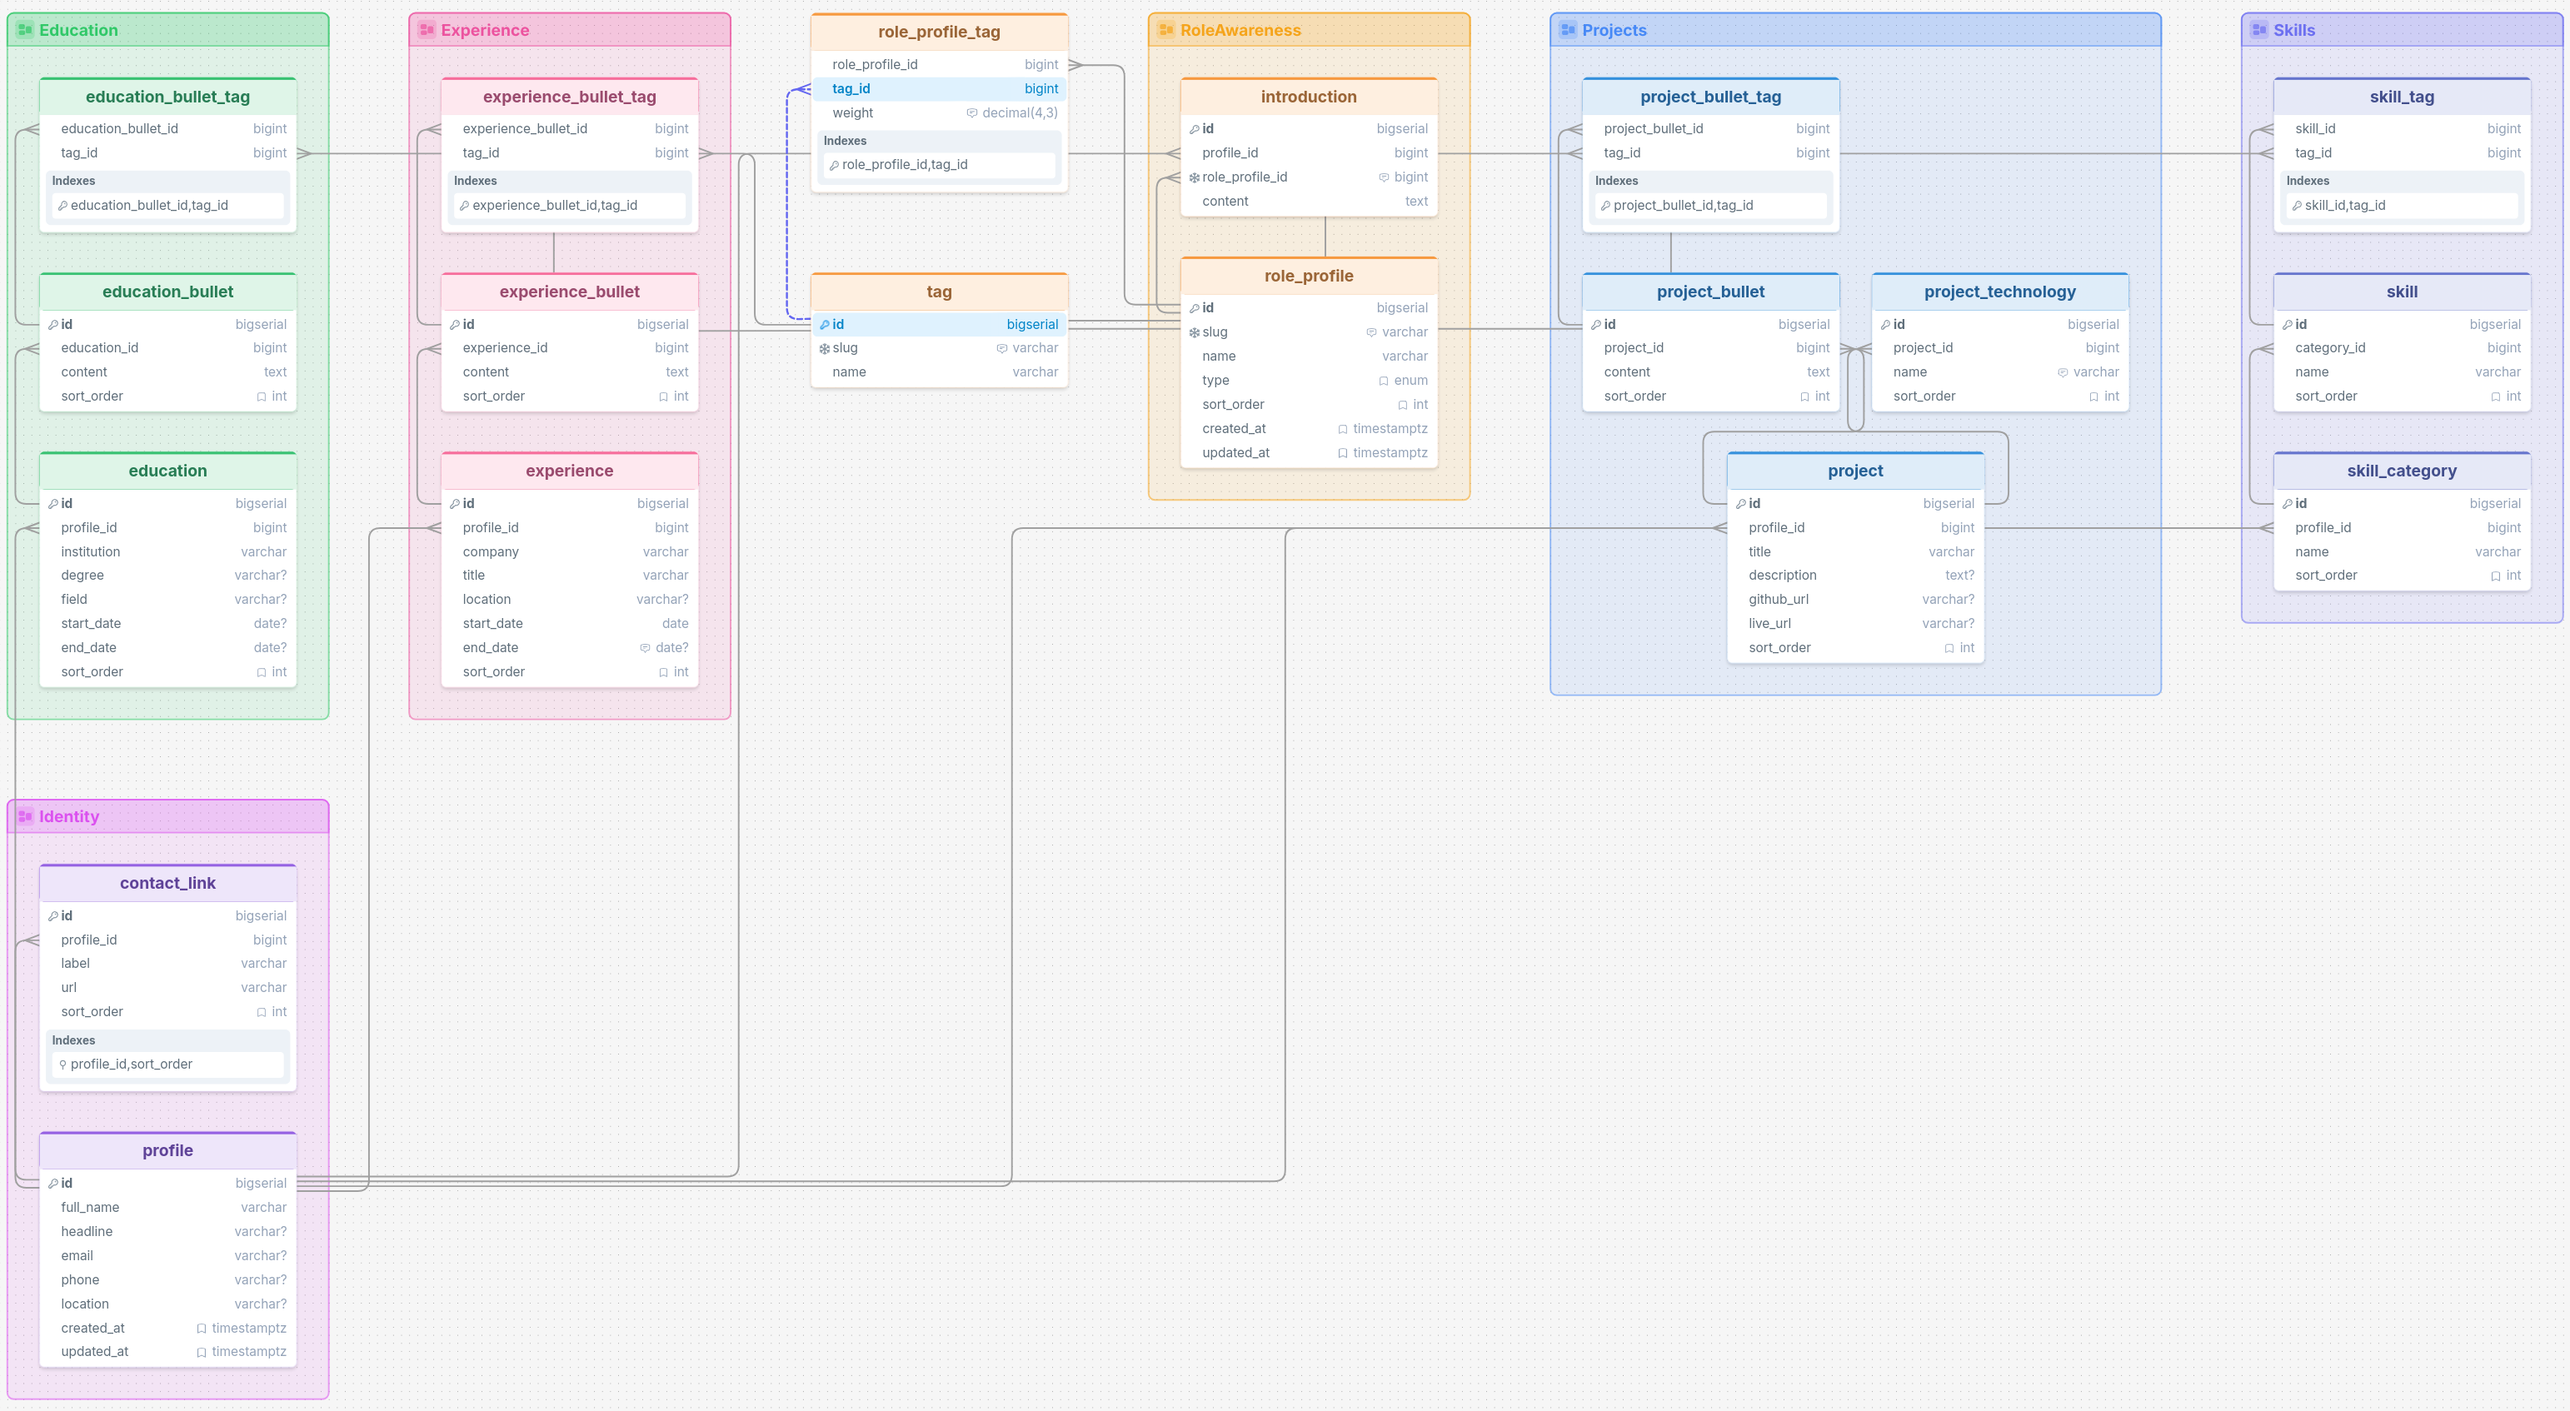
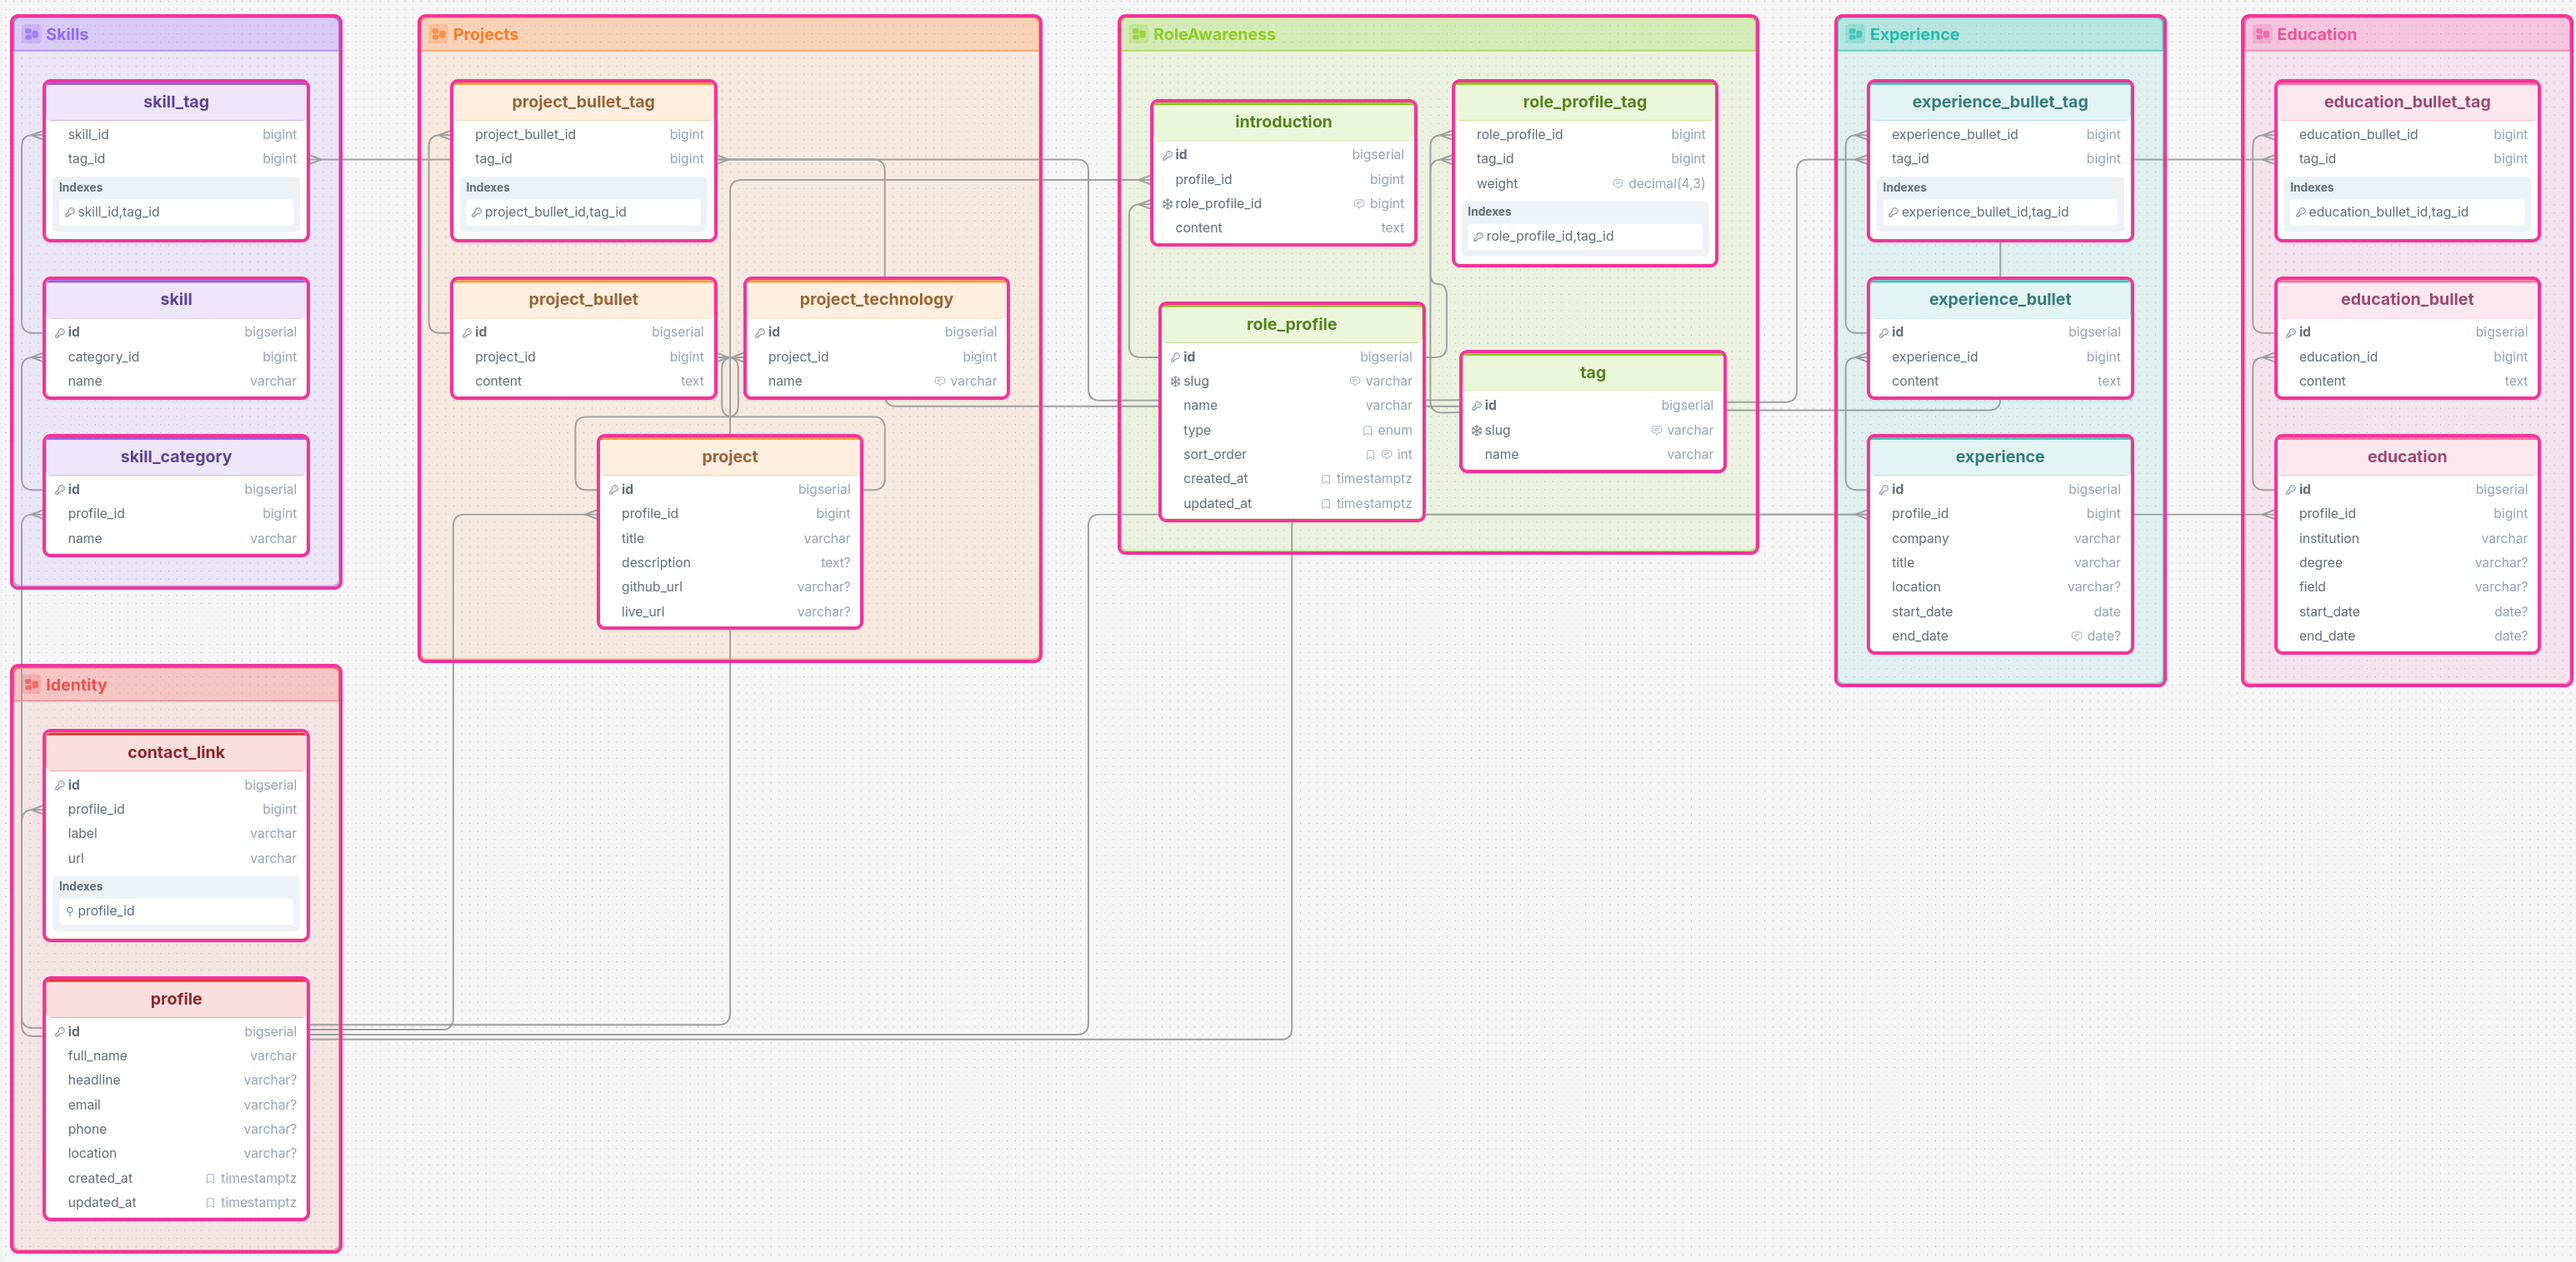
Updated db schema

Changed region(s): [[0.0, 0.0, 1.0, 1.0]]

diff --git a/schema.md b/schema.md
@@ -2,6 +2,8 @@
 
 Concrete schema reflecting what we’ve locked in: bullets on experience/education/projects, introductions FK’d to role profiles, tags included now (including on project bullets), single language for now.
 
+CV content ordering is **not** stored as `sort_order` columns. Skills, experiences, education, projects, and their bullets are ordered at query time by tag relevance to the selected `role_profile`. The only remaining `sort_order` is on `role_profile` itself (UI role-selector order).
+
 ## Diagram
 
 ![CV database schema](images/db_schema.png)
@@ -85,7 +87,6 @@ Use `BIGINT` identity PKs everywhere. One language only for now (no locale colum
 | `profile_id` | FK → profile | |
 | `label` | VARCHAR NOT NULL | e.g. GitHub, LinkedIn |
 | `url` | VARCHAR NOT NULL | |
-| `sort_order` | INT NOT NULL DEFAULT 0 | |
 
 ### Role awareness (included now)
 
@@ -105,7 +106,7 @@ Use `BIGINT` identity PKs everywhere. One language only for now (no locale colum
 | `slug` | VARCHAR NOT NULL UNIQUE | `general`, `java`, `backend`, … (URLs later) |
 | `name` | VARCHAR NOT NULL | e.g. Java Developer |
 | `type` | VARCHAR NOT NULL | `GENERAL` \| `PERMANENT` \| `VACANCY` |
-| `sort_order` | INT NOT NULL DEFAULT 0 | selector order |
+| `sort_order` | INT NOT NULL DEFAULT 0 | order in the role selector UI only |
 | `created_at` / `updated_at` | TIMESTAMPTZ | |
 
 Constraints worth adding:
@@ -146,7 +147,6 @@ Constraints worth adding:
 | `location` | VARCHAR | |
 | `start_date` | DATE NOT NULL | |
 | `end_date` | DATE | null = current |
-| `sort_order` | INT NOT NULL DEFAULT 0 | |
 
 **`experience_bullet`**
 
@@ -155,7 +155,6 @@ Constraints worth adding:
 | `id` | BIGINT PK | |
 | `experience_id` | FK | |
 | `content` | TEXT NOT NULL | |
-| `sort_order` | INT NOT NULL DEFAULT 0 | |
 
 **`experience_bullet_tag`** — `(experience_bullet_id, tag_id)` PK
 
@@ -172,7 +171,6 @@ Constraints worth adding:
 | `field` | VARCHAR | programme / major |
 | `start_date` | DATE | |
 | `end_date` | DATE | |
-| `sort_order` | INT NOT NULL DEFAULT 0 | |
 
 **`education_bullet`**
 
@@ -181,7 +179,6 @@ Constraints worth adding:
 | `id` | BIGINT PK | |
 | `education_id` | FK | |
 | `content` | TEXT NOT NULL | courses, topics, achievements |
-| `sort_order` | INT NOT NULL DEFAULT 0 | |
 
 **`education_bullet_tag`** — `(education_bullet_id, tag_id)` PK
 
@@ -196,7 +193,6 @@ Constraints worth adding:
 | `id` | BIGINT PK | |
 | `profile_id` | FK | |
 | `name` | VARCHAR NOT NULL | Backend, Frontend, … |
-| `sort_order` | INT NOT NULL DEFAULT 0 | |
 
 **`skill`**
 
@@ -205,7 +201,6 @@ Constraints worth adding:
 | `id` | BIGINT PK | |
 | `category_id` | FK | |
 | `name` | VARCHAR NOT NULL | Java, Spring Boot, … |
-| `sort_order` | INT NOT NULL DEFAULT 0 | |
 
 **`skill_tag`** — `(skill_id, tag_id)` PK
 
@@ -221,7 +216,6 @@ Constraints worth adding:
 | `description` | TEXT | short overview (optional) |
 | `github_url` | VARCHAR | |
 | `live_url` | VARCHAR | |
-| `sort_order` | INT NOT NULL DEFAULT 0 | |
 
 **`project_bullet`**
 
@@ -230,7 +224,6 @@ Constraints worth adding:
 | `id` | BIGINT PK | |
 | `project_id` | FK | |
 | `content` | TEXT NOT NULL | |
-| `sort_order` | INT NOT NULL DEFAULT 0 | |
 
 **`project_technology`** — display chips on the project (not the relevance model)
 
@@ -239,17 +232,17 @@ Constraints worth adding:
 | `id` | BIGINT PK | |
 | `project_id` | FK | |
 | `name` | VARCHAR NOT NULL | e.g. React, PostgreSQL |
-| `sort_order` | INT NOT NULL DEFAULT 0 | |
 
 **`project_bullet_tag`** — `(project_bullet_id, tag_id)` PK for relevance (aligned with experience/education bullets)
 
 ## Design notes
 
-1. **`project_technology` vs tags** — technologies are for UI labels; tags on **project bullets** drive scoring. A project can show “React” as a chip and have bullets tagged `frontend` / `react`.
-2. **No i18n columns** — add translation later when needed.
-3. **No admin/user tables** — Epic 6.
-4. **Vacancy profiles** — same `role_profile` + weights; extra vacancy metadata can wait until Epic 7.
-5. **`profile_id` everywhere** — slightly redundant for a single CV, but keeps FKs clear and avoids a special-case “global” model.
+1. **Ordering** — CV sections/items are ordered by tag relevance to the active role profile (Epic 4 scoring), not by stored `sort_order`. `role_profile.sort_order` is only for the role dropdown.
+2. **`project_technology` vs tags** — technologies are for UI labels; tags on **project bullets** drive scoring. A project can show “React” as a chip and have bullets tagged `frontend` / `react`.
+3. **No i18n columns** — add translation later when needed.
+4. **No admin/user tables** — Epic 6.
+5. **Vacancy profiles** — same `role_profile` + weights; extra vacancy metadata can wait until Epic 7.
+6. **`profile_id` everywhere** — slightly redundant for a single CV, but keeps FKs clear and avoids a special-case “global” model.
 
 ## Suggested split for issues
 
@@ -265,6 +258,7 @@ Paste into [DrawSQL](https://drawsql.app/draw) via File → Import (PostgreSQL).
 ```dbml
 // CV schema design for issue #10
 // Single language for now; i18n later via Flyway
+// CV content order comes from tag relevance, not sort_order columns
 
 Enum role_profile_type {
   GENERAL
@@ -325,10 +319,9 @@ Table contact_link {
   profile_id bigint [not null]
   label varchar [not null]
   url varchar [not null]
-  sort_order int [not null, default: 0]
 
   Indexes {
-    (profile_id, sort_order)
+    profile_id
   }
 }
 
@@ -343,7 +336,7 @@ Table role_profile {
   slug varchar [not null, unique, note: 'general, java, backend, ...']
   name varchar [not null]
   type role_profile_type [not null]
-  sort_order int [not null, default: 0]
+  sort_order int [not null, default: 0, note: 'role selector UI order only']
   created_at timestamptz [not null, default: `now()`]
   updated_at timestamptz [not null, default: `now()`]
 }
@@ -373,14 +366,12 @@ Table experience {
   location varchar
   start_date date [not null]
   end_date date [note: 'null = current']
-  sort_order int [not null, default: 0]
 }
 
 Table experience_bullet {
   id bigint [pk, increment]
   experience_id bigint [not null]
   content text [not null]
-  sort_order int [not null, default: 0]
 }
 
 Table experience_bullet_tag {
@@ -400,14 +391,12 @@ Table education {
   field varchar
   start_date date
   end_date date
-  sort_order int [not null, default: 0]
 }
 
 Table education_bullet {
   id bigint [pk, increment]
   education_id bigint [not null]
   content text [not null]
-  sort_order int [not null, default: 0]
 }
 
 Table education_bullet_tag {
@@ -423,14 +412,12 @@ Table skill_category {
   id bigint [pk, increment]
   profile_id bigint [not null]
   name varchar [not null]
-  sort_order int [not null, default: 0]
 }
 
 Table skill {
   id bigint [pk, increment]
   category_id bigint [not null]
   name varchar [not null]
-  sort_order int [not null, default: 0]
 }
 
 Table skill_tag {
@@ -449,21 +436,18 @@ Table project {
   description text
   github_url varchar
   live_url varchar
-  sort_order int [not null, default: 0]
 }
 
 Table project_bullet {
   id bigint [pk, increment]
   project_id bigint [not null]
   content text [not null]
-  sort_order int [not null, default: 0]
 }
 
 Table project_technology {
   id bigint [pk, increment]
   project_id bigint [not null]
   name varchar [not null, note: 'display chip; relevance uses project_bullet_tag']
-  sort_order int [not null, default: 0]
 }
 
 Table project_bullet_tag {
